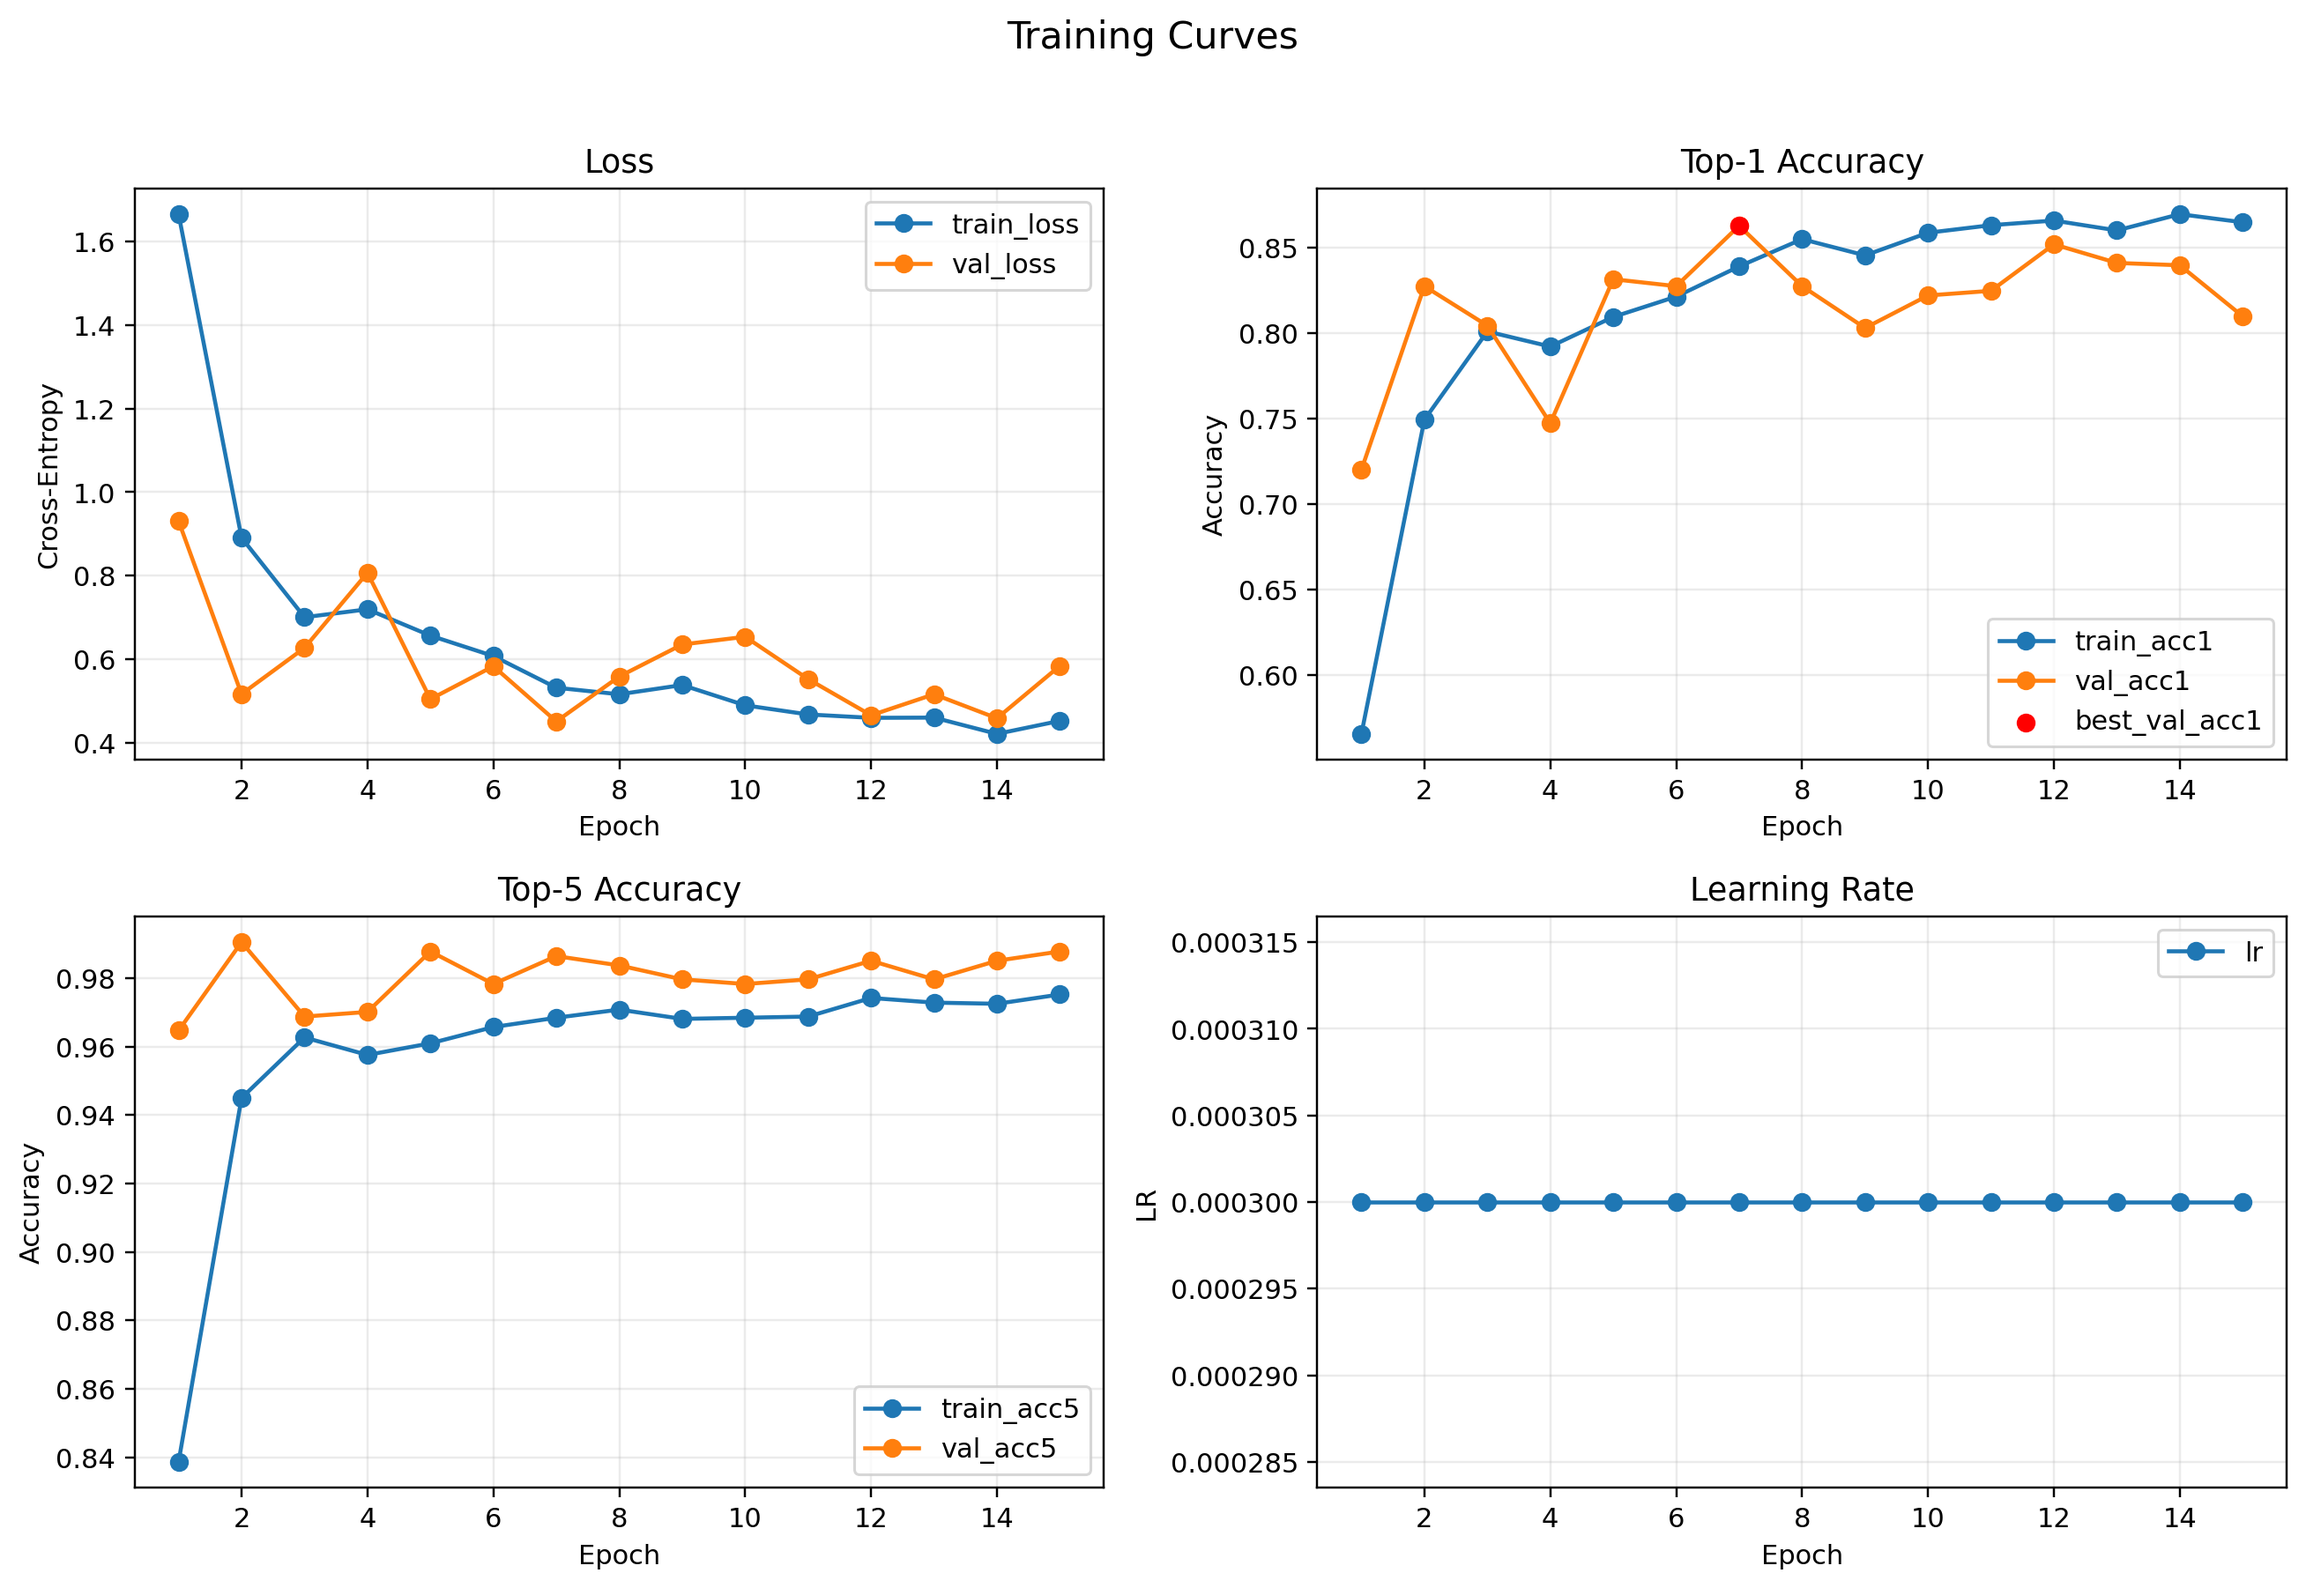
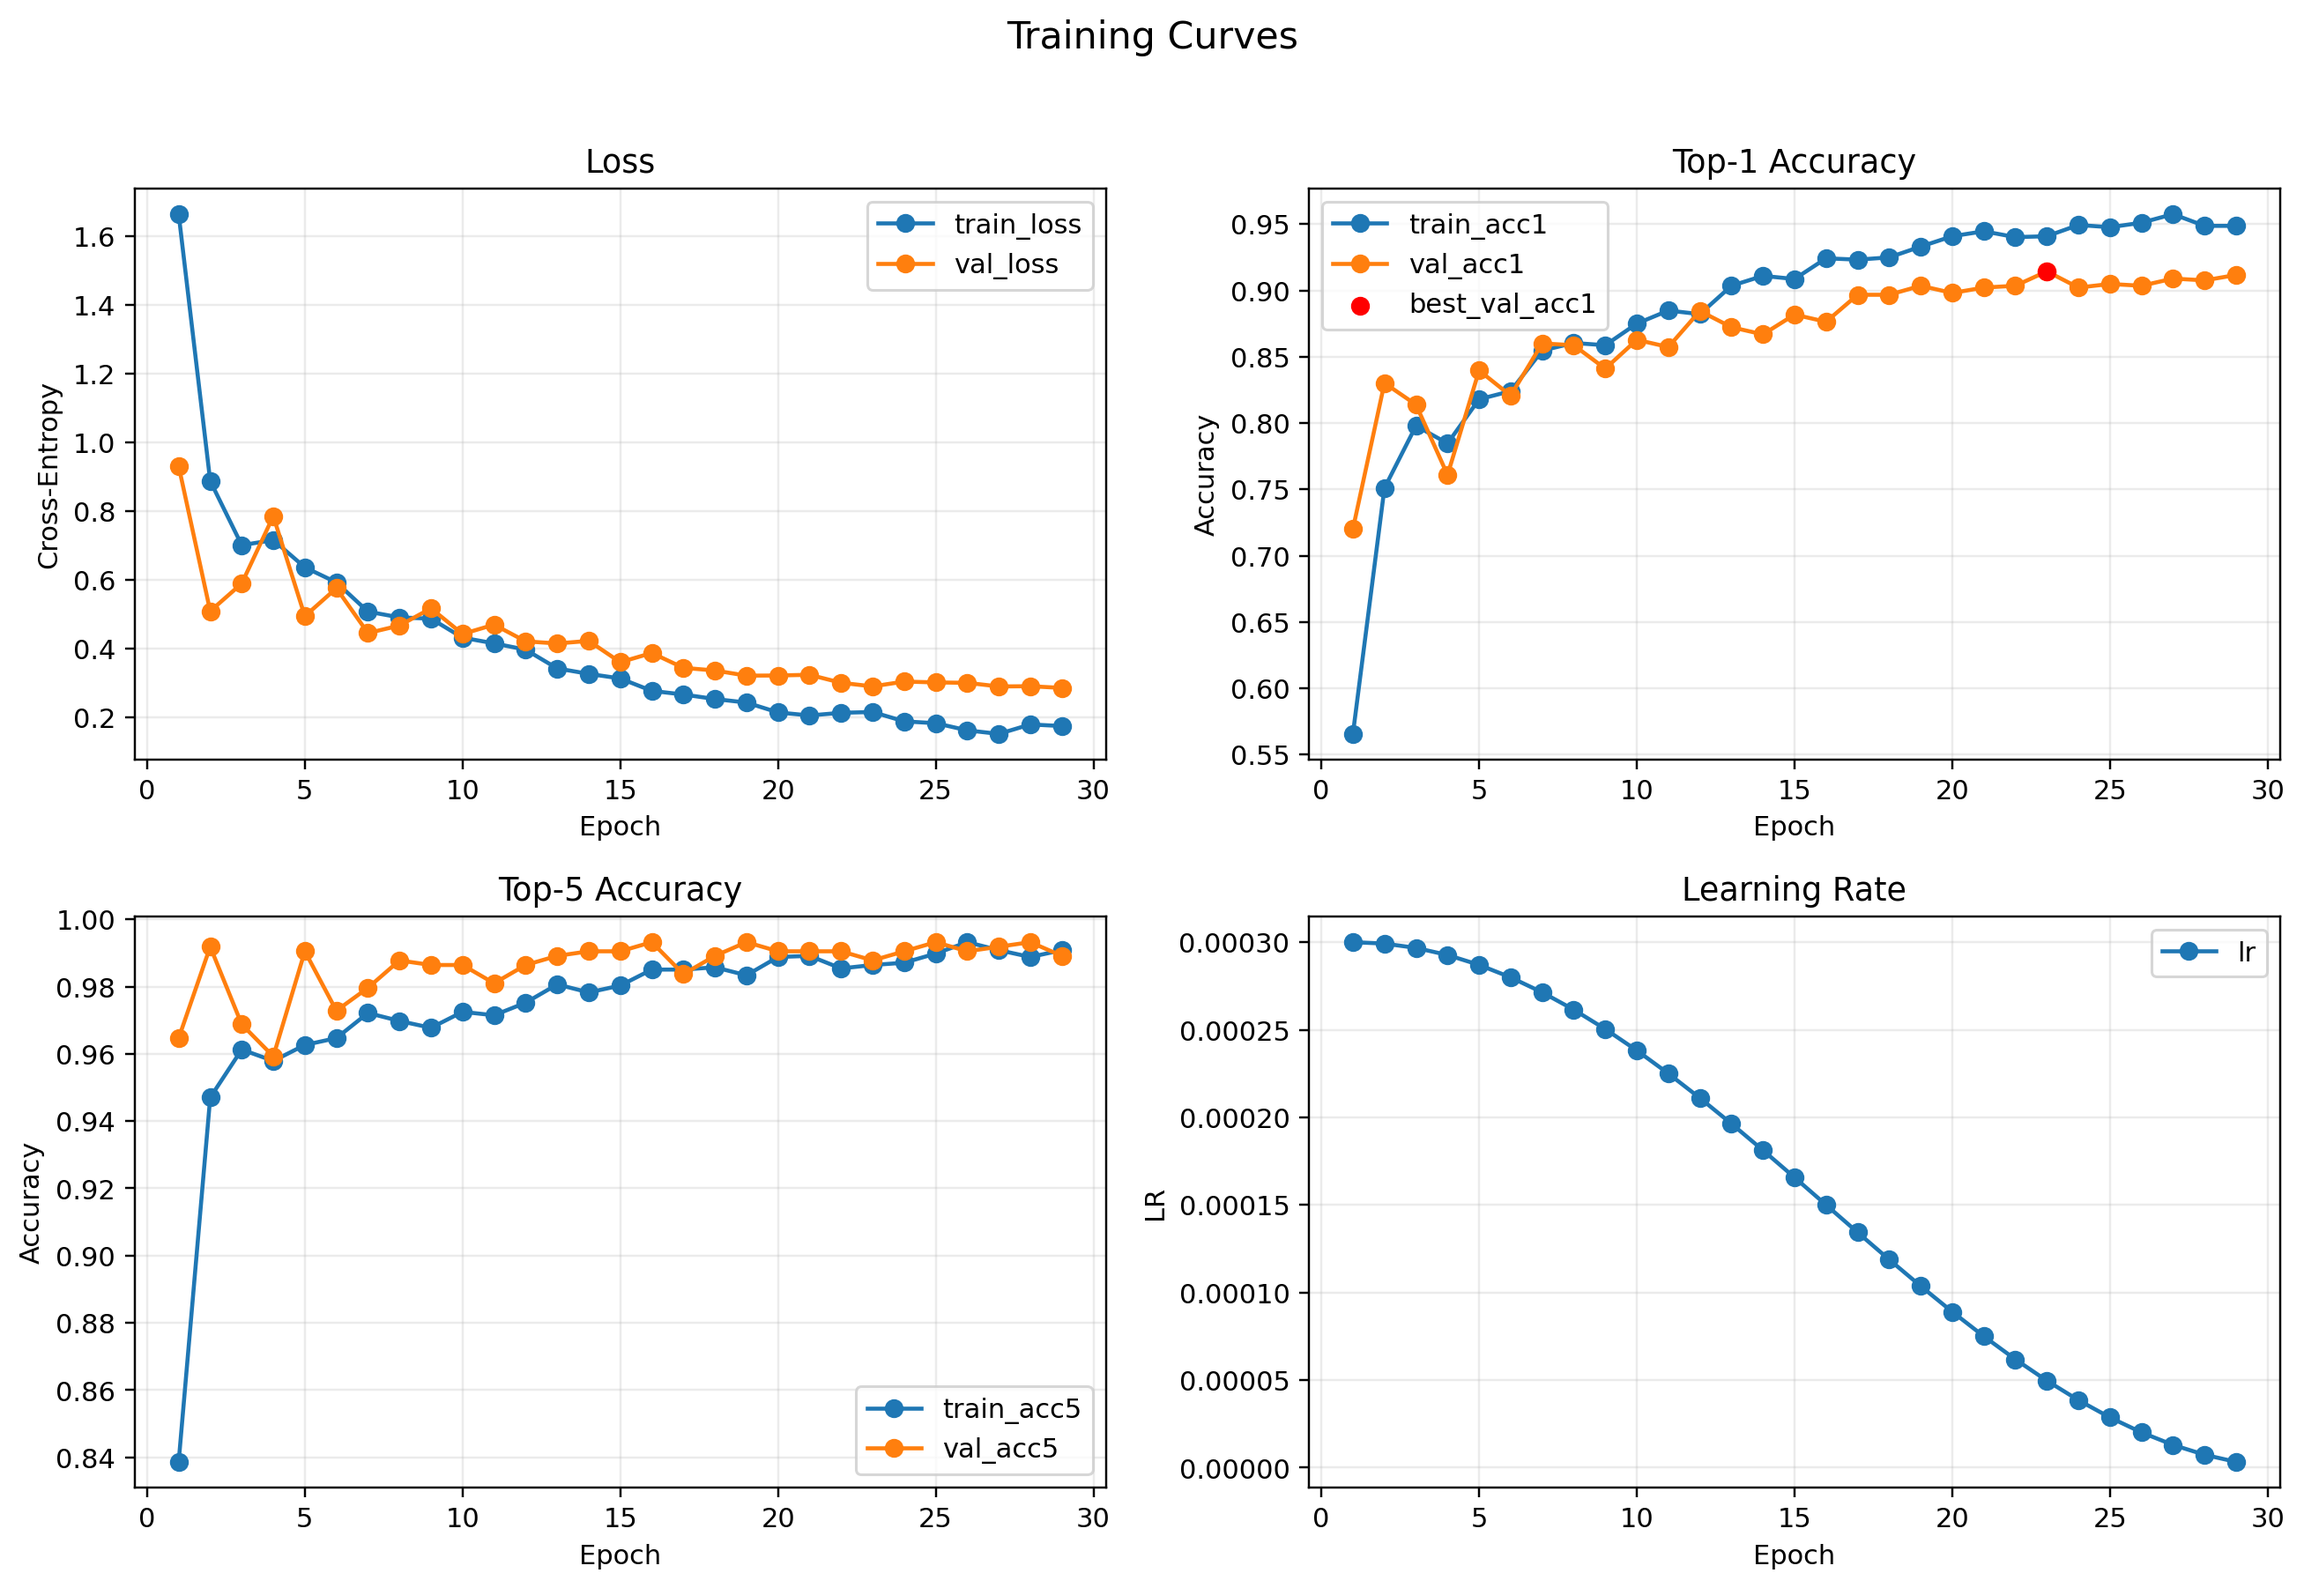
Add isolated experiment workflow and showcase exp02 improvements

diff --git a/src/train.py b/src/train.py
@@ -319,6 +319,8 @@ def main() -> None:
 			model, val_loader, criterion, device
 		)
 
+		# Log LR actually used during this epoch. Scheduler updates LR for the next epoch.
+		current_lr = optimizer.param_groups[0]["lr"]
 		epoch_metrics = {
 			"train_loss": train_loss,
 			"train_acc1": train_acc1,
@@ -326,17 +328,9 @@ def main() -> None:
 			"val_loss": val_loss,
 			"val_acc1": val_acc1,
 			"val_acc5": val_acc5,
+			"lr": current_lr,
 		}
 
-		if scheduler is not None:
-			if isinstance(scheduler, ReduceLROnPlateau):
-				sched_monitor = str(train_cfg.get("scheduler", {}).get("monitor", "val_loss"))
-				scheduler.step(_get_metric_value(epoch_metrics, sched_monitor))
-			else:
-				scheduler.step()
-
-		current_lr = optimizer.param_groups[0]["lr"]
-		epoch_metrics["lr"] = current_lr
 		_append_metrics_csv(
 			path=metrics_path,
 			epoch=epoch + 1,
@@ -348,6 +342,13 @@ def main() -> None:
 			val_acc5=val_acc5,
 			lr=current_lr,
 		)
+
+		if scheduler is not None:
+			if isinstance(scheduler, ReduceLROnPlateau):
+				sched_monitor = str(train_cfg.get("scheduler", {}).get("monitor", "val_loss"))
+				scheduler.step(_get_metric_value(epoch_metrics, sched_monitor))
+			else:
+				scheduler.step()
 
 		best_val_acc, is_best = _update_best_val_acc(best_val_acc, val_acc1)
 		if is_best:

diff --git a/README.md b/README.md
@@ -44,6 +44,30 @@ Run with cosine scheduler + early stopping preset:
 python -m src.train --config configs/cosine_earlystop.yaml
 ```
 
+## Experiments
+
+Use isolated run folders to avoid overwriting `best.pt`, `last.pt`, and `metrics.csv` between experiments.
+
+Run the first isolated baseline experiment:
+
+```bash
+source .venv/bin/activate
+./scripts/run_experiment.sh configs/experiments/exp01_baseline_e15_s42.yaml runs/exp01_baseline_e15_s42
+```
+
+The script refuses to overwrite an existing run folder by default.
+Use `--force` only when you intentionally want to rerun into the same `run_dir`.
+
+Run the second experiment (cosine scheduler + early stopping):
+
+```bash
+./scripts/run_experiment.sh configs/experiments/exp02_cosine_es_e30_s42.yaml runs/exp02_cosine_es_e30_s42
+```
+
+Recommended workflow:
+- Keep one high-level summary in this README.
+- Keep detailed per-run notes in `docs/experiments/*.md`.
+
 Common overrides:
 
 ```bash
@@ -88,39 +112,49 @@ python -m src.eval --ckpt checkpoints/best.pt --split test --cm-out assets/confu
 
 ## Results
 
-### Baseline experiment
+### Current best experiment (`exp02_cosine_es_e30_s42`)
 
-Training command used for the baseline below:
+Training command:
 
 ```bash
-python -m src.train --config configs/default.yaml --epochs 15
+./scripts/run_experiment.sh --force configs/experiments/exp02_cosine_es_e30_s42.yaml runs/exp02_cosine_es_e30_s42
 ```
 
 | Parameter | Value |
 | --- | --- |
 | Model | ResNet18 (ImageNet pretrained) |
 | Dataset | Oxford-IIIT Pets (37 classes) |
-| Epochs | 15 (best checkpoint at epoch 7 by val acc@1) |
-| Batch size | 32 |
 | Optimizer | AdamW |
-| Learning rate | 3e-4 |
-| Scheduler | none |
+| Initial LR | 3e-4 |
+| Scheduler | cosine (`t_max=30`) |
+| Early stopping | `monitor=val_acc1`, `patience=6`, `min_delta=0.001` |
+| Best epoch | 23 |
+| Stopped epoch | 29 (early stop) |
 
-### Final metrics (best checkpoint)
+### Metrics (best checkpoint)
 
 | Split | loss | acc@1 | acc@5 |
 | --- | --- | --- | --- |
-| Val | 0.4513 | 0.863 | 0.986 |
-| Test | 0.5881 | 0.817 | 0.974 |
+| Val | 0.2890 | 0.914 | 0.988 |
+| Test | 0.4570 | 0.875 | 0.984 |
+
+### Improvement vs baseline (`exp01_baseline_e15_s42`)
+
+| Metric | Baseline | Current best | Delta |
+| --- | --- | --- | --- |
+| val_acc1 | 0.8628 | 0.9144 | +5.16 pp |
+| test_acc1 | 0.8170 | 0.8750 | +5.80 pp |
+| test_loss | 0.5881 | 0.4570 | -0.1311 |
+| test_acc5 | 0.9740 | 0.9840 | +1.00 pp |
 
 ![Confusion matrix](assets/confusion_matrix.png)
 ![Training curves](assets/training_curves.png)
 
 ### Observations
 
-- Validation top-1 peaks at epoch 7, then does not improve meaningfully.
-- Around epochs 10-12+, val loss trends worse while train accuracy keeps increasing, indicating overfitting.
-- Top-5 stays high, so most errors are near-misses between visually similar breeds.
+- Constant LR baseline underfits later training stages compared to cosine schedule.
+- With `patience=6`, early stopping avoids stopping too early and captures late improvements.
+- Validation and test both improve, so the gain is not only validation overfitting.
 
 ## Predict
 

diff --git a/docs/experiments/exp02_cosine_es_e30_s42.md b/docs/experiments/exp02_cosine_es_e30_s42.md
@@ -1,0 +1,37 @@
+# Experiment: `exp02_cosine_es_e30_s42`
+
+## Goal
+Compare against baseline with cosine LR schedule and early stopping enabled.
+
+## Config
+- Path: `configs/experiments/exp02_cosine_es_e30_s42.yaml`
+- Scheduler: `cosine` (`t_max=30`)
+- Early stopping: `enabled` (`monitor=val_acc1`, `mode=max`, `patience=6`, `min_delta=0.001`)
+
+## Commands
+```bash
+source .venv/bin/activate
+./scripts/run_experiment.sh configs/experiments/exp02_cosine_es_e30_s42.yaml runs/exp02_cosine_es_e30_s42
+```
+
+If you intentionally rerun into the same folder:
+
+```bash
+./scripts/run_experiment.sh --force configs/experiments/exp02_cosine_es_e30_s42.yaml runs/exp02_cosine_es_e30_s42
+```
+
+## Outputs
+- Checkpoint: `runs/exp02_cosine_es_e30_s42/checkpoints/best.pt`
+- Metrics CSV: `runs/exp02_cosine_es_e30_s42/artifacts/metrics.csv`
+- Curves: `runs/exp02_cosine_es_e30_s42/assets/training_curves.png`
+- Confusion matrix: `runs/exp02_cosine_es_e30_s42/assets/confusion_matrix.png`
+
+## Results
+- Best epoch: 23
+- Early-stopped epoch: 29
+- Val: `loss 0.2890 | acc@1 0.914 | acc@5 0.988`
+- Test: `loss 0.4570 | acc@1 0.875 | acc@5 0.984`
+
+## Notes
+- Compare this run with `docs/experiments/exp01_baseline_e15_s42.md`.
+- Improvement vs baseline (`exp01`): `+5.16` pp on val acc@1 and `+5.8` pp on test acc@1.

diff --git a/docs/experiments/exp01_baseline_e15_s42.md b/docs/experiments/exp01_baseline_e15_s42.md
@@ -1,0 +1,36 @@
+# Experiment: `exp01_baseline_e15_s42`
+
+## Goal
+Baseline isolated run with fixed seed and 15 epochs.
+
+## Config
+- Path: `configs/experiments/exp01_baseline_e15_s42.yaml`
+- Scheduler: `none`
+- Early stopping: `disabled`
+
+## Commands
+```bash
+source .venv/bin/activate
+./scripts/run_experiment.sh configs/experiments/exp01_baseline_e15_s42.yaml runs/exp01_baseline_e15_s42
+```
+
+If you intentionally rerun into the same folder:
+
+```bash
+./scripts/run_experiment.sh --force configs/experiments/exp01_baseline_e15_s42.yaml runs/exp01_baseline_e15_s42
+```
+
+## Outputs
+- Checkpoint: `runs/exp01_baseline_e15_s42/checkpoints/best.pt`
+- Metrics CSV: `runs/exp01_baseline_e15_s42/artifacts/metrics.csv`
+- Curves: `runs/exp01_baseline_e15_s42/assets/training_curves.png`
+- Confusion matrix: `runs/exp01_baseline_e15_s42/assets/confusion_matrix.png`
+
+## Results
+- Best epoch: 7
+- Val: `loss 0.4513 | acc@1 0.863 | acc@5 0.986`
+- Test: `loss 0.5881 | acc@1 0.817 | acc@5 0.974`
+
+## Notes
+- 15 epochs were fully trained without early stopping.
+- Validation quality peaks around epoch 7, then mostly oscillates/degrades.

diff --git a/docs/experiments/README.md b/docs/experiments/README.md
@@ -19,3 +19,13 @@ Use one file per experiment when you want to keep details (settings, metrics, no
 
 - Baseline 15 epochs: summarized in main README results section.
 - Cosine + early stopping template config: `configs/cosine_earlystop.yaml`.
+- Isolated baseline run template: `docs/experiments/exp01_baseline_e15_s42.md`.
+- Runner script: `scripts/run_experiment.sh`.
+- Isolated cosine+ES run template: `docs/experiments/exp02_cosine_es_e30_s42.md`.
+
+## Comparison table
+
+| Experiment | Config | Best epoch | Stopped at epoch | Val (loss / acc@1 / acc@5) | Test (loss / acc@1 / acc@5) |
+| --- | --- | --- | --- | --- | --- |
+| `exp01_baseline_e15_s42` | `configs/experiments/exp01_baseline_e15_s42.yaml` | 7 | 15 | `0.4513 / 0.863 / 0.986` | `0.5881 / 0.817 / 0.974` |
+| `exp02_cosine_es_e30_s42` | `configs/experiments/exp02_cosine_es_e30_s42.yaml` | 23 | 29 (early stop) | `0.2890 / 0.914 / 0.988` | `0.4570 / 0.875 / 0.984` |
